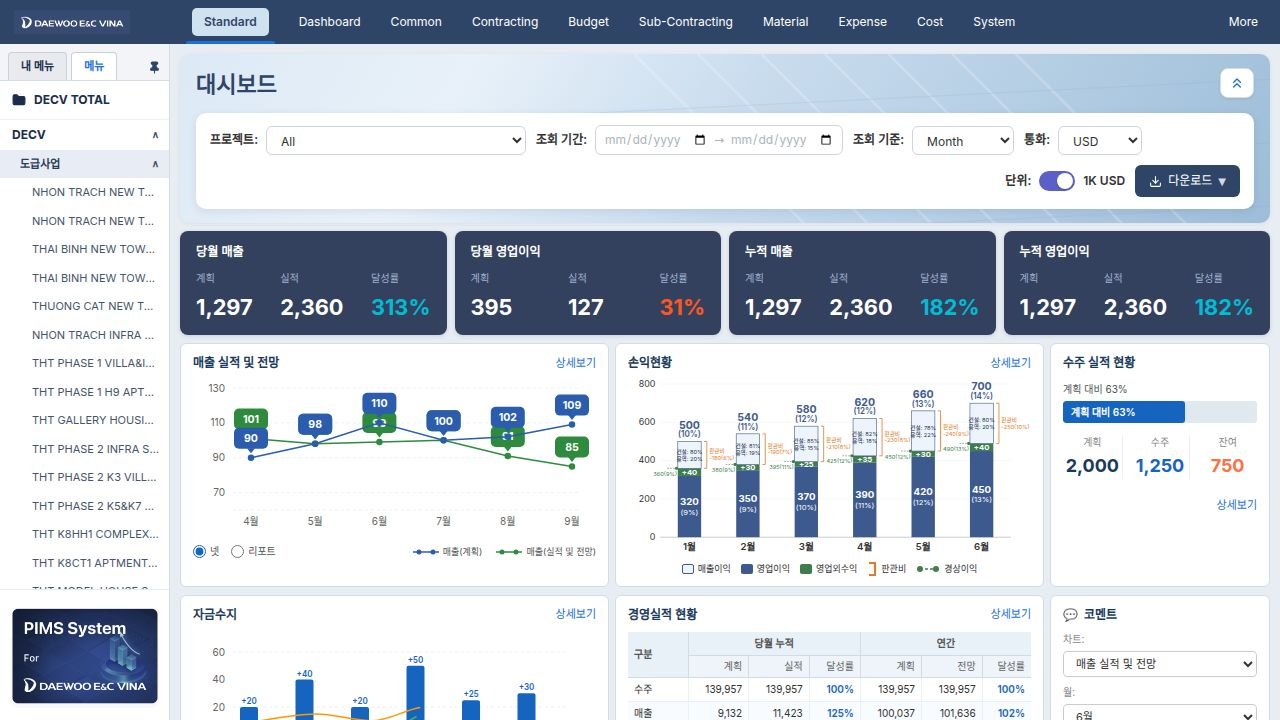
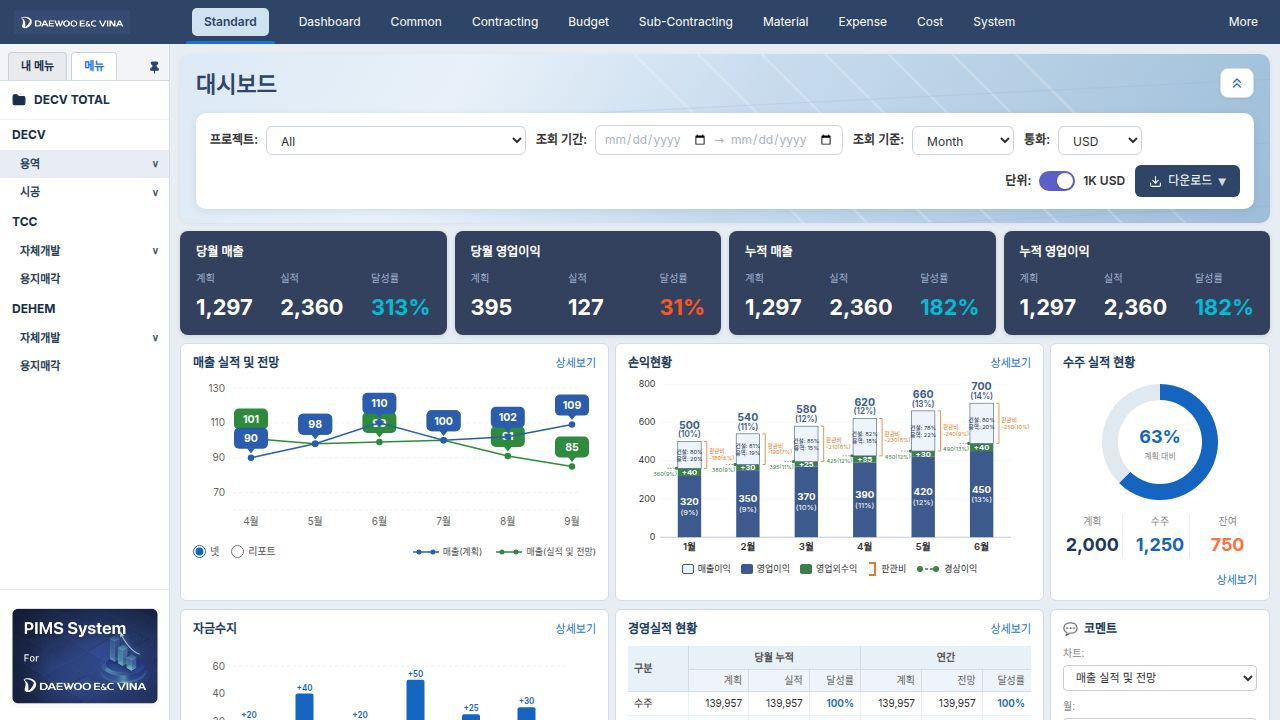
Task #9: 좌측 메뉴 하위메뉴 기본 접힘 처리
pims-dashboard-2 Sidebar TreeNode의 초기 open 상태를 true에서 false로 변경.
- artifacts/pims-dashboard-2/src/components/Sidebar.tsx: useState(true) -> useState(false)
- 최상위 그룹은 expanded = isTopLevel || open 로직에 의해 항상 펼쳐진 상태 유지
- 하위 그룹(프로젝트 목록)은 첫 렌더링 시 접힘, 클릭 시 펼치기/접기 정상 동작
- typecheck 통과, 스크린샷으로 접힘 상태 확인 완료

Replit-Task-Id: 4f92605b-bd93-4f89-9bdf-377f89c864ab

diff --git a/artifacts/pims-dashboard-2/src/components/Sidebar.tsx b/artifacts/pims-dashboard-2/src/components/Sidebar.tsx
@@ -39,7 +39,7 @@ function TreeNode({
   selectedProject: string | null;
   onSelectProject: (name: string) => void;
 }) {
-  const [open, setOpen] = useState(true);
+  const [open, setOpen] = useState(false);
   const hasChildren = item.children && item.children.length > 0;
   const isTopLevel = depth === 0;
   const isSubGroup = depth === 1;
